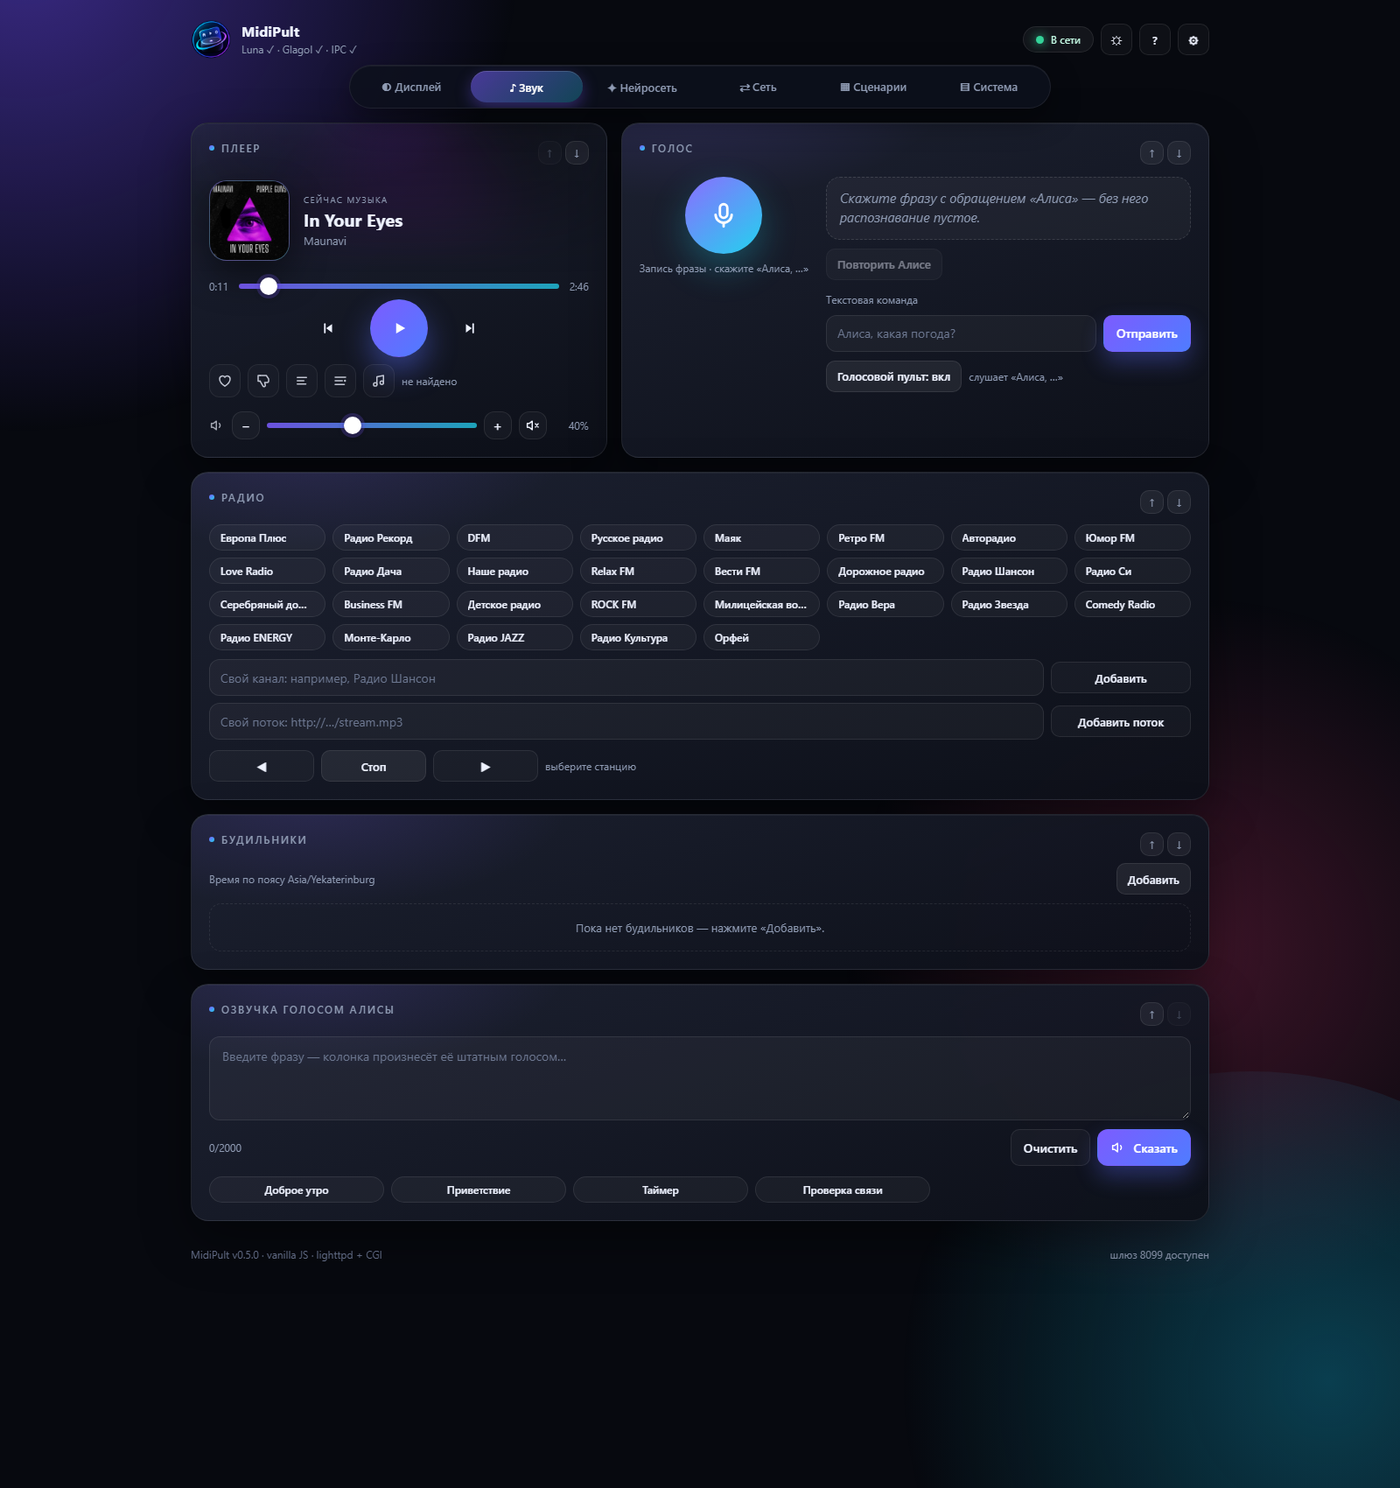
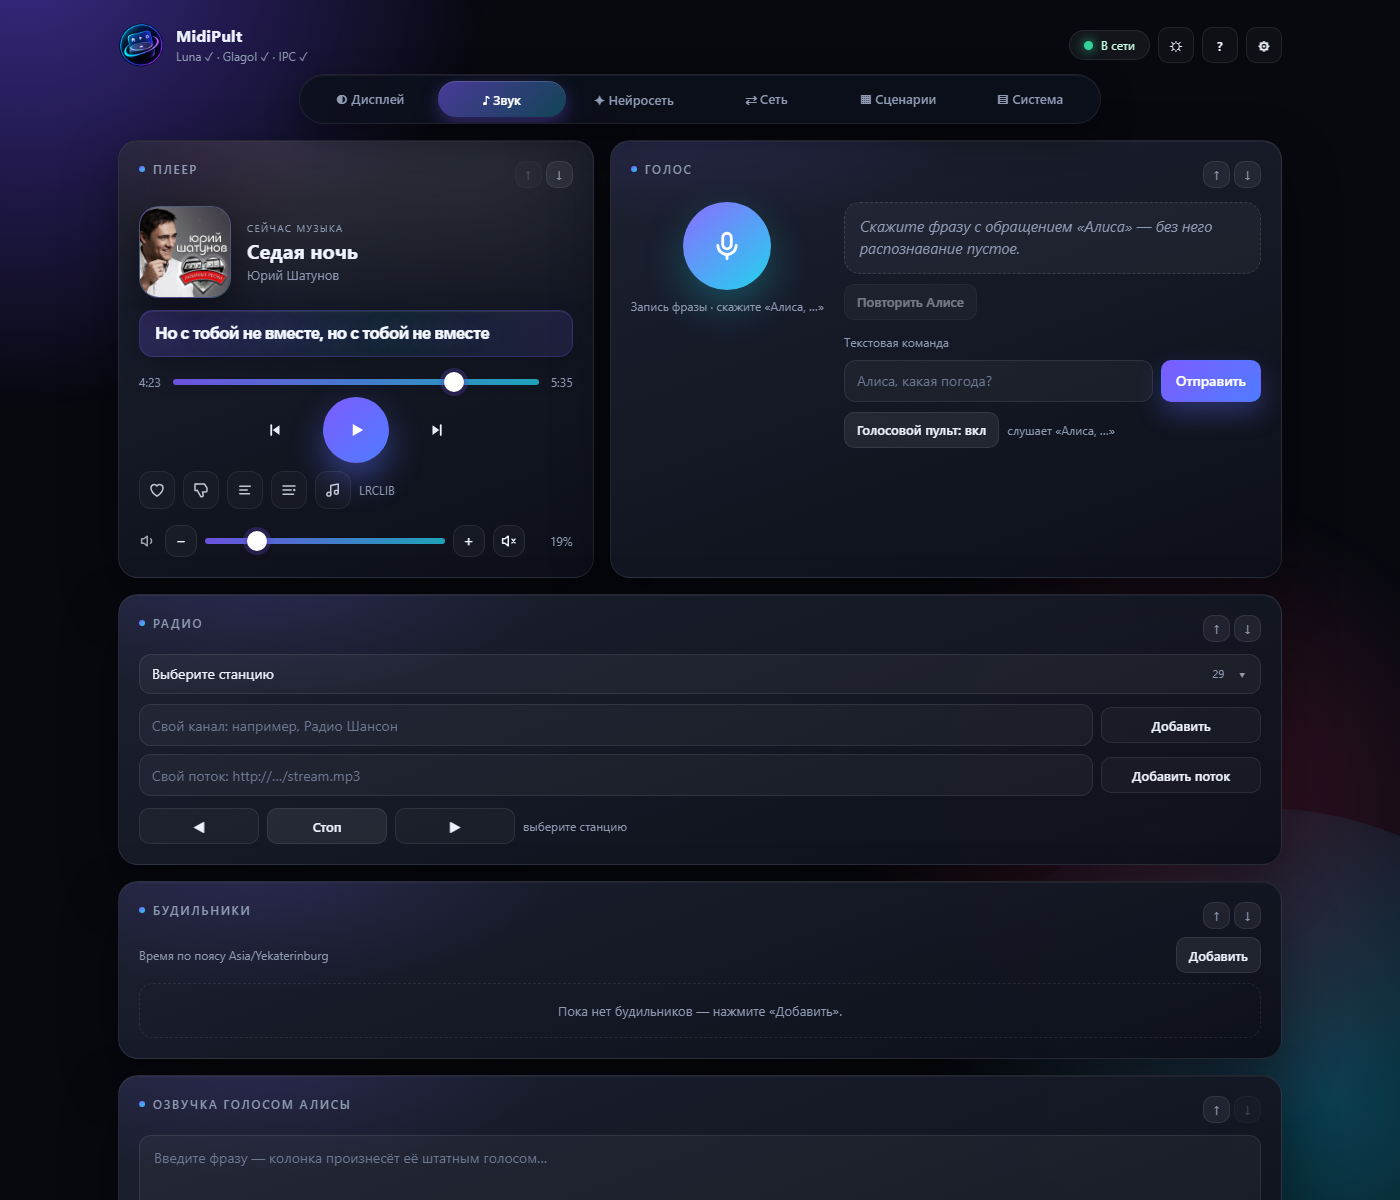
0.5.5: compact radio picker with search instead of station grid

diff --git a/index.html b/index.html
@@ -181,7 +181,21 @@ main.grid{
   }
   .radio-grid .chip{width:100%;min-width:0;justify-content:flex-start;gap:6px;padding:0 12px;overflow:hidden}
   .radio-grid .radio-label{flex:1 1 auto;min-width:0;overflow:hidden;text-overflow:ellipsis;white-space:nowrap;text-align:left}
-  .radio-controls{max-width:100%;margin-top:10px}
+  .radio-picker{position:relative;margin-top:12px;z-index:2}
+.c-radio{overflow:hidden}
+.radio-pick-count{font-size:11px;color:var(--muted);margin-left:auto;margin-right:2px}
+.radio-picker .radio-list{position:static;left:auto;right:auto;top:auto;max-height:260px;
+  margin-top:8px;padding:6px;background:#0f1420;border-radius:12px;overscroll-behavior:contain}
+.radio-list .radio-option{font-size:13.5px;padding:9px 10px;border-radius:8px}
+.radio-list .radio-option + .radio-option{margin-top:2px}
+.radio-list .radio-option:hover{background:rgba(124,92,255,.20)}
+.radio-list .net-input{height:34px;margin-bottom:6px;position:sticky;top:-8px;z-index:1}
+.radio-option{display:flex;align-items:center;gap:8px;width:100%}
+.radio-option .radio-label{flex:1 1 auto;min-width:0;overflow:hidden;text-overflow:ellipsis;
+  white-space:nowrap;text-align:left}
+.radio-option .chip-x{margin-left:auto;flex:0 0 auto}
+.radio-option[hidden]{display:none}
+.radio-controls{max-width:100%;margin-top:10px}
   .radio-add{display:flex;gap:var(--gap-sm);align-items:center}
   .radio-add .net-input{flex:1 1 auto;min-width:0}
   .radio-add .btn{flex:0 0 160px}
@@ -1328,7 +1342,19 @@ body.booting main.grid,body.booting .tabs,body.booting footer{visibility:hidden}
   <!-- ───────── радио ───────── -->
   <section class="card c-radio" data-group="sound" aria-labelledby="h-radio">
     <h2 id="h-radio"><span class="dot"></span>Радио</h2>
-    <div class="radio-grid" id="radioChips"></div>
+    <div class="radio-picker">
+      <button type="button" class="alarm-select" id="btnRadioPick"
+              aria-haspopup="listbox" aria-expanded="false">
+        <span id="radioPickName">Выберите станцию</span>
+        <span class="radio-pick-count" id="radioPickCount"></span>
+        <span class="alarm-caret">▾</span>
+      </button>
+      <div class="alarm-station-list radio-list" id="radioPop" hidden>
+        <input type="text" id="radioSearch" class="net-input" placeholder="Поиск станции"
+               autocomplete="off" aria-label="Поиск радиостанции">
+        <div id="radioChips" role="listbox" aria-label="Радиостанции"></div>
+      </div>
+    </div>
     <div class="radio-controls">
       <div class="radio-add">
         <input id="radioName" class="net-input" placeholder="Свой канал: например, Радио Шансон" autocomplete="off">
@@ -5304,10 +5330,46 @@ body.booting main.grid,body.booting .tabs,body.booting footer{visibility:hidden}
   }
 
   /* ─────────── радио ─────────── */
+  function filterRadio() {
+    if (!el.radioChips || !el.radioSearch) return;
+    var query = (el.radioSearch.value || '').trim().toLowerCase();
+    Array.prototype.forEach.call(el.radioChips.children, function (option) {
+      var label = option.querySelector('.radio-label');
+      var name = label ? (label.textContent || '').toLowerCase() : '';
+      option.hidden = !!query && name.indexOf(query) < 0;
+    });
+  }
+
+  function toggleRadioPop(show) {
+    if (!el.radioPop || !el.btnRadioPick) return;
+    el.radioPop.hidden = !show;
+    el.btnRadioPick.setAttribute('aria-expanded', show ? 'true' : 'false');
+    if (show) {
+      el.radioSearch.value = '';
+      filterRadio();
+      setTimeout(function () { el.radioSearch.focus(); }, 30);
+    }
+  }
+
   function markRadioChip() {
     var current = State.radio ? State.radio.index : null;
-    Array.prototype.forEach.call(el.radioChips.children, function (chip) {
-      chip.setAttribute('aria-pressed', String(parseInt(chip.dataset.index, 10) === current));
+    var station = null;
+    if (State.radio && State.radio.stations) {
+      State.radio.stations.some(function (item) {
+        if (item.index === current) { station = item; return true; }
+        return false;
+      });
+    }
+    if (el.radioPickName) {
+      el.radioPickName.textContent = station ? station.name : 'Выберите станцию';
+    }
+    if (el.radioPickCount) {
+      el.radioPickCount.textContent = String((State.radio && State.radio.stations || []).length);
+    }
+    Array.prototype.forEach.call(el.radioChips.children, function (option) {
+      var active = parseInt(option.dataset.index, 10) === current;
+      option.setAttribute('aria-pressed', String(active));
+      option.setAttribute('aria-selected', String(active));
     });
   }
 
@@ -5316,19 +5378,20 @@ body.booting main.grid,body.booting .tabs,body.booting footer{visibility:hidden}
     State.radio.stations = stations || [];
     el.radioChips.innerHTML = '';
     State.radio.stations.forEach(function (station) {
-      var chip = document.createElement('button');
-      chip.type = 'button';
-      chip.className = 'chip';
-      chip.dataset.index = station.index;
+      var option = document.createElement('button');
+      option.type = 'button';
+      option.className = 'alarm-station-item radio-option';
+      option.dataset.index = station.index;
+      option.setAttribute('role', 'option');
       var label = document.createElement('span');
       label.className = 'radio-label';
       label.textContent = station.name;
-      chip.appendChild(label);
+      option.appendChild(label);
       if (station.url) {
-        chip.classList.add('radio-url');
-        chip.title = 'Поток: ' + station.url;
+        option.classList.add('radio-url');
+        option.title = 'Поток: ' + station.url;
       } else {
-        chip.title = 'Алиса: ' + (station.query || station.name);
+        option.title = 'Алиса: ' + (station.query || station.name);
       }
       if (station.custom) {
         var del = document.createElement('span');
@@ -5339,11 +5402,12 @@ body.booting main.grid,body.booting .tabs,body.booting footer{visibility:hidden}
           ev.stopPropagation();
           removeRadio(station.name);
         });
-        chip.appendChild(del);
+        option.appendChild(del);
       }
-      el.radioChips.appendChild(chip);
+      el.radioChips.appendChild(option);
     });
     markRadioChip();
+    filterRadio();
   }
 
   function loadRadio() {
@@ -8025,10 +8089,26 @@ body.booting main.grid,body.booting .tabs,body.booting footer{visibility:hidden}
     el.btnVoiceDaemon.addEventListener('click', toggleVoiceDaemon);
 
     /* радио */
+    el.btnRadioPick.addEventListener('click', function (ev) {
+      ev.stopPropagation();
+      toggleRadioPop(el.radioPop.hidden);
+    });
+    el.radioSearch.addEventListener('input', filterRadio);
+    el.radioPop.addEventListener('click', function (ev) { ev.stopPropagation(); });
+    document.addEventListener('click', function (ev) {
+      if (!ev.target.closest('.radio-picker')) toggleRadioPop(false);
+    });
+    document.addEventListener('keydown', function (ev) {
+      if (ev.key === 'Escape' && el.radioPop && !el.radioPop.hidden) {
+        toggleRadioPop(false);
+        el.btnRadioPick.focus();
+      }
+    });
     el.radioChips.addEventListener('click', function (ev) {
-      var chip = ev.target.closest('.chip');
-      if (!chip || chip.dataset.index === undefined) return;
-      playRadio(parseInt(chip.dataset.index, 10));
+      var option = ev.target.closest('.radio-option');
+      if (!option || option.dataset.index === undefined) return;
+      toggleRadioPop(false);
+      playRadio(parseInt(option.dataset.index, 10));
     });
     el.btnRadioPrev.addEventListener('click', function () { stepRadio(-1); });
     el.btnRadioNext.addEventListener('click', function () { stepRadio(1); });
@@ -8306,6 +8386,7 @@ body.booting main.grid,body.booting .tabs,body.booting footer{visibility:hidden}
       'btnVoiceDaemon', 'voiceDaemonStatus',
       'radioChips', 'btnRadioPrev', 'btnRadioStop', 'btnRadioNext', 'radioStatus',
       'radioName', 'btnRadioAdd', 'radioUrl', 'btnRadioStream',
+      'btnRadioPick', 'radioPickName', 'radioPickCount', 'radioPop', 'radioSearch',
       'btnBtPairMode', 'btnBtScan', 'btStatus', 'btDevices', 'btnBtPower',
       'netPsk', 'btnNetScan', 'netStatus', 'netList', 'netDetails',
       'netDns', 'btnNetDns', 'btnNetDnsReset', 'netIpv6', 'ipv6Status',

diff --git a/tests/static_checks.py b/tests/static_checks.py
@@ -535,6 +535,9 @@ def test_yapanel_features():
               'id="btnLyrics"', 'id="lyricsBox"', "currentProgress")))
     check("текст: без караоке-заливки",
           "np-lyric-text::before" not in html and "State.audioProgress" in html)
+    check("радио: компактный список",
+          all(token in html for token in (
+              'id="btnRadioPick"', 'id="radioPop"', 'id="radioSearch"')))
     check("UI: лайки и оверлей текста",
           all(token in html for token in (
               'id="btnLike"', 'id="btnDislike"', 'id="lyricsDlg"',

diff --git a/README.md b/README.md
@@ -16,7 +16,7 @@
 плеер и радио, голосовые команды, нейросеть по API, VPN, Bluetooth, Wi-Fi,
 сценарии с расписанием, резервные копии и диагностика.
 
-Текущая версия — **0.5.4**. Работает на самой колонке: `lighttpd` на порту **8055** + CGI на Python.
+Текущая версия — **0.5.5**. Работает на самой колонке: `lighttpd` на порту **8055** + CGI на Python.
 Интерфейс — один `index.html` на чистом HTML/CSS/JS, без React, Node и внешних CDN.
 
 [Репозиторий приложения Android](https://github.com/RoBiN19666/midipult-android)

diff --git a/CHANGELOG.md b/CHANGELOG.md
@@ -5,6 +5,11 @@
 развивался итерациями `0.0.x`; полная история — в
 [docs/CHANGELOG-dev.md](docs/CHANGELOG-dev.md).
 
+## 0.5.5 — 2026-11-20
+
+- Радио: вместо сетки из 29 кнопок — компактный выпадающий список с поиском;
+  текущая станция видна на кнопке, рядом счётчик станций.
+- Свои каналы и потоки остаются в списке, удаление — крестиком.
 ## 0.5.4 — 2026-11-20
 
 - Плеер: убран «караоке»-эффект в строке текста — теперь ровный белый жирный
